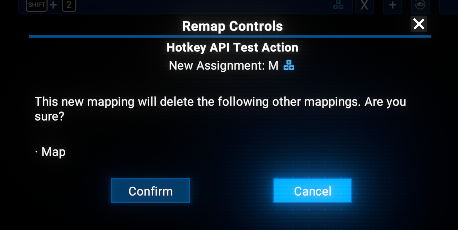
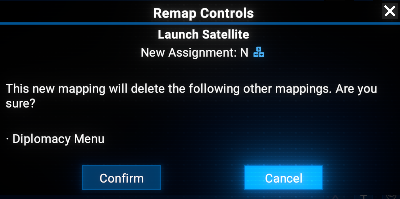
docs(README): add hard remap warning image to documentation
README.md: +added hard remap warning image for clarity

diff --git a/README.md b/README.md
@@ -45,6 +45,8 @@ It contains:
 
   ![Remap warning](docs/images/warning.png)
 
+  ![Hard Remap Warning](docs/images/hard_warning.png)
+
 - **Hotkey Requests** - lists every id any mod has tried to register this session, regardless of whether it currently holds a slot, with a checkbox per row:
 
   ![Hotkey Requests](docs/images/hotkey_requests.png)